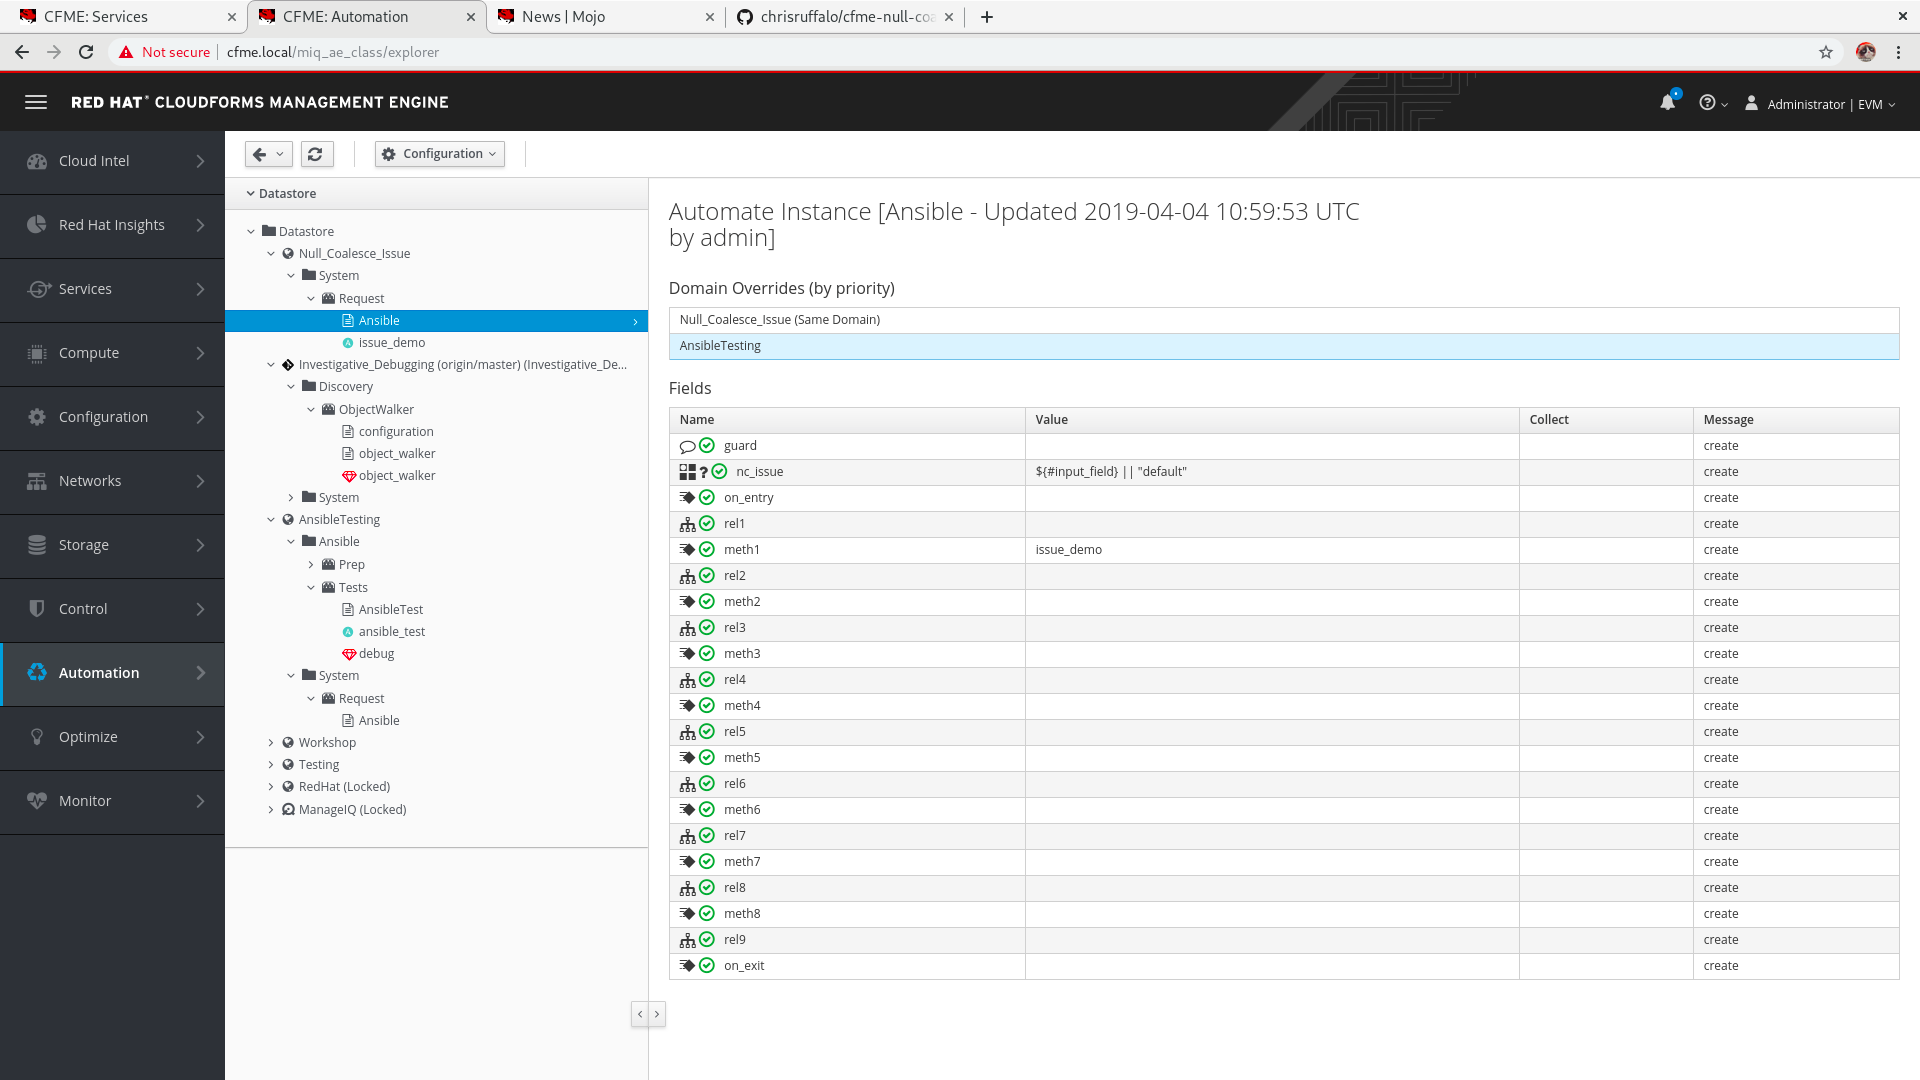
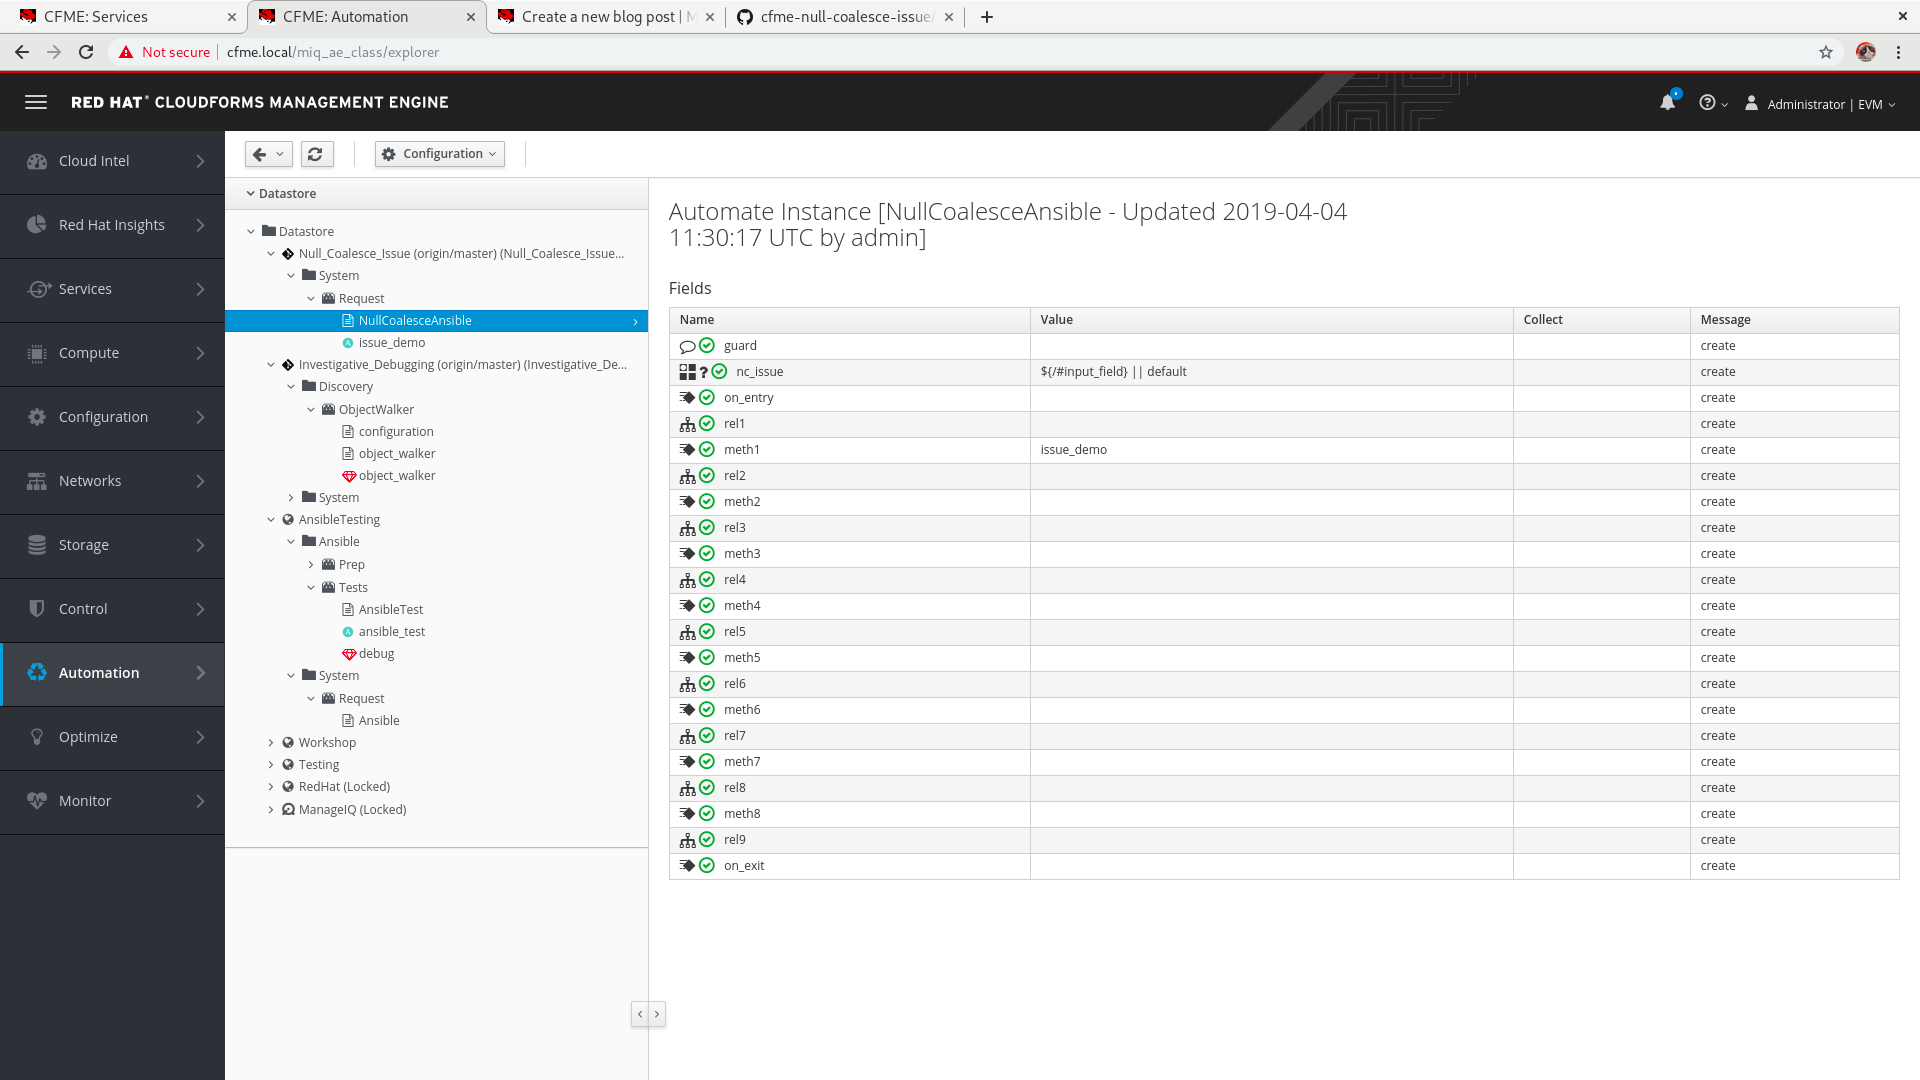
added more docs

diff --git a/README.md b/README.md
@@ -4,15 +4,19 @@
 * Import https://github.com/chrisruffalo/cfme-null-coalesce-issue.git as an Ansible repository with the EXACT name "CFME Null Coalesce Issue"
 * Import https://github.com/chrisruffalo/cfme-null-coalesce-issue.git as a Domain from the branch origin/master
 * Simulate the execution of `NullCoalesceAnsible` with the attribute/value pair { input_field => new value }
-* Observe the output is 'new value || "default"'
+* Observe the output of `input_field` is 'new value || default' while the ouput of `input_field2` is just 'new value' (because it was coalesced inside the instance)
 
 ## Screenshots
 
+The automation instance has a new member added (`nc_issue`) that is used to null coalesce the input `input_field` from the simulation.
 ![Automation Instance](img/automation_instance.png "Automation Instance")
 
+The plabook method has two inputs, one which is null coalesced in the field and another that accepts the value (`nc_issue`) that was coalesced in the instance
 ![Playbook Method](img/playbook_method.png "Playbook Method")
 
+The simulation passes in a new value, ommit `input_field` to have it print the value "default"
 ![Simulation Setup](img/simulation_setup.png "Simulation Setup")
 
+Expected output would have `input_field` and `input_field2` the same value
 ![Ansible Output](img/ansible_output.png "Ansible Ouput")
 
